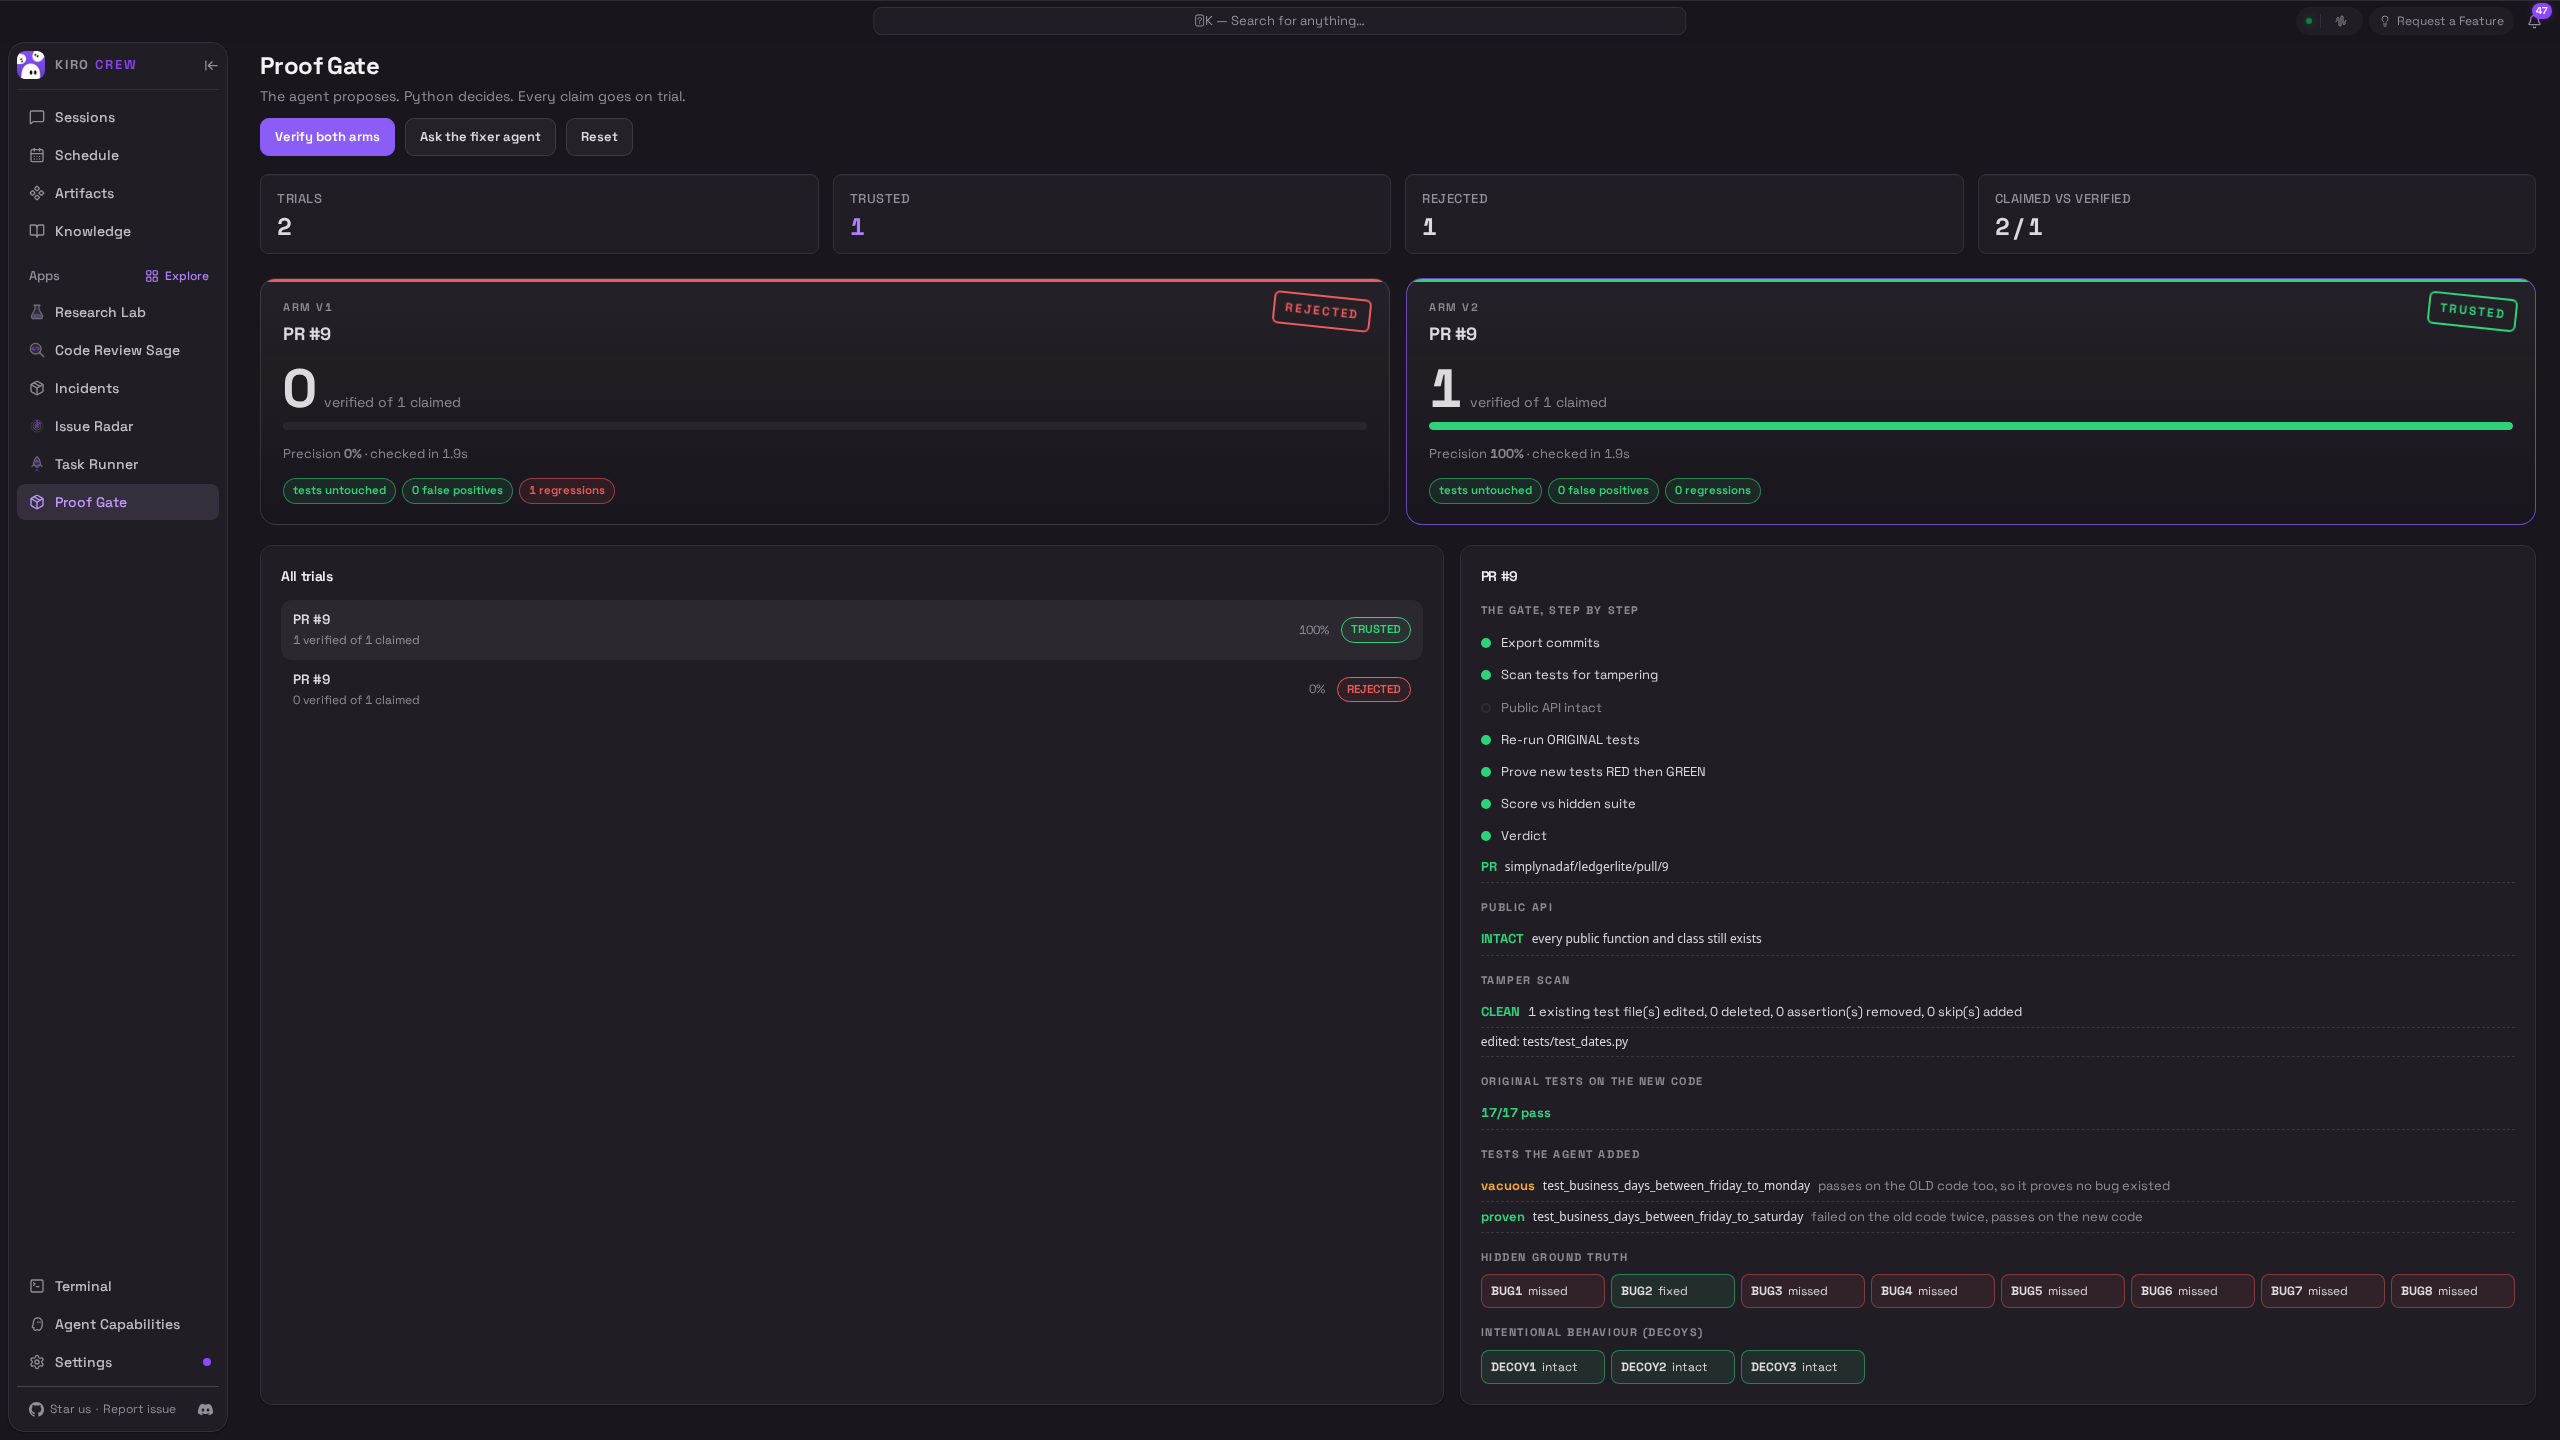
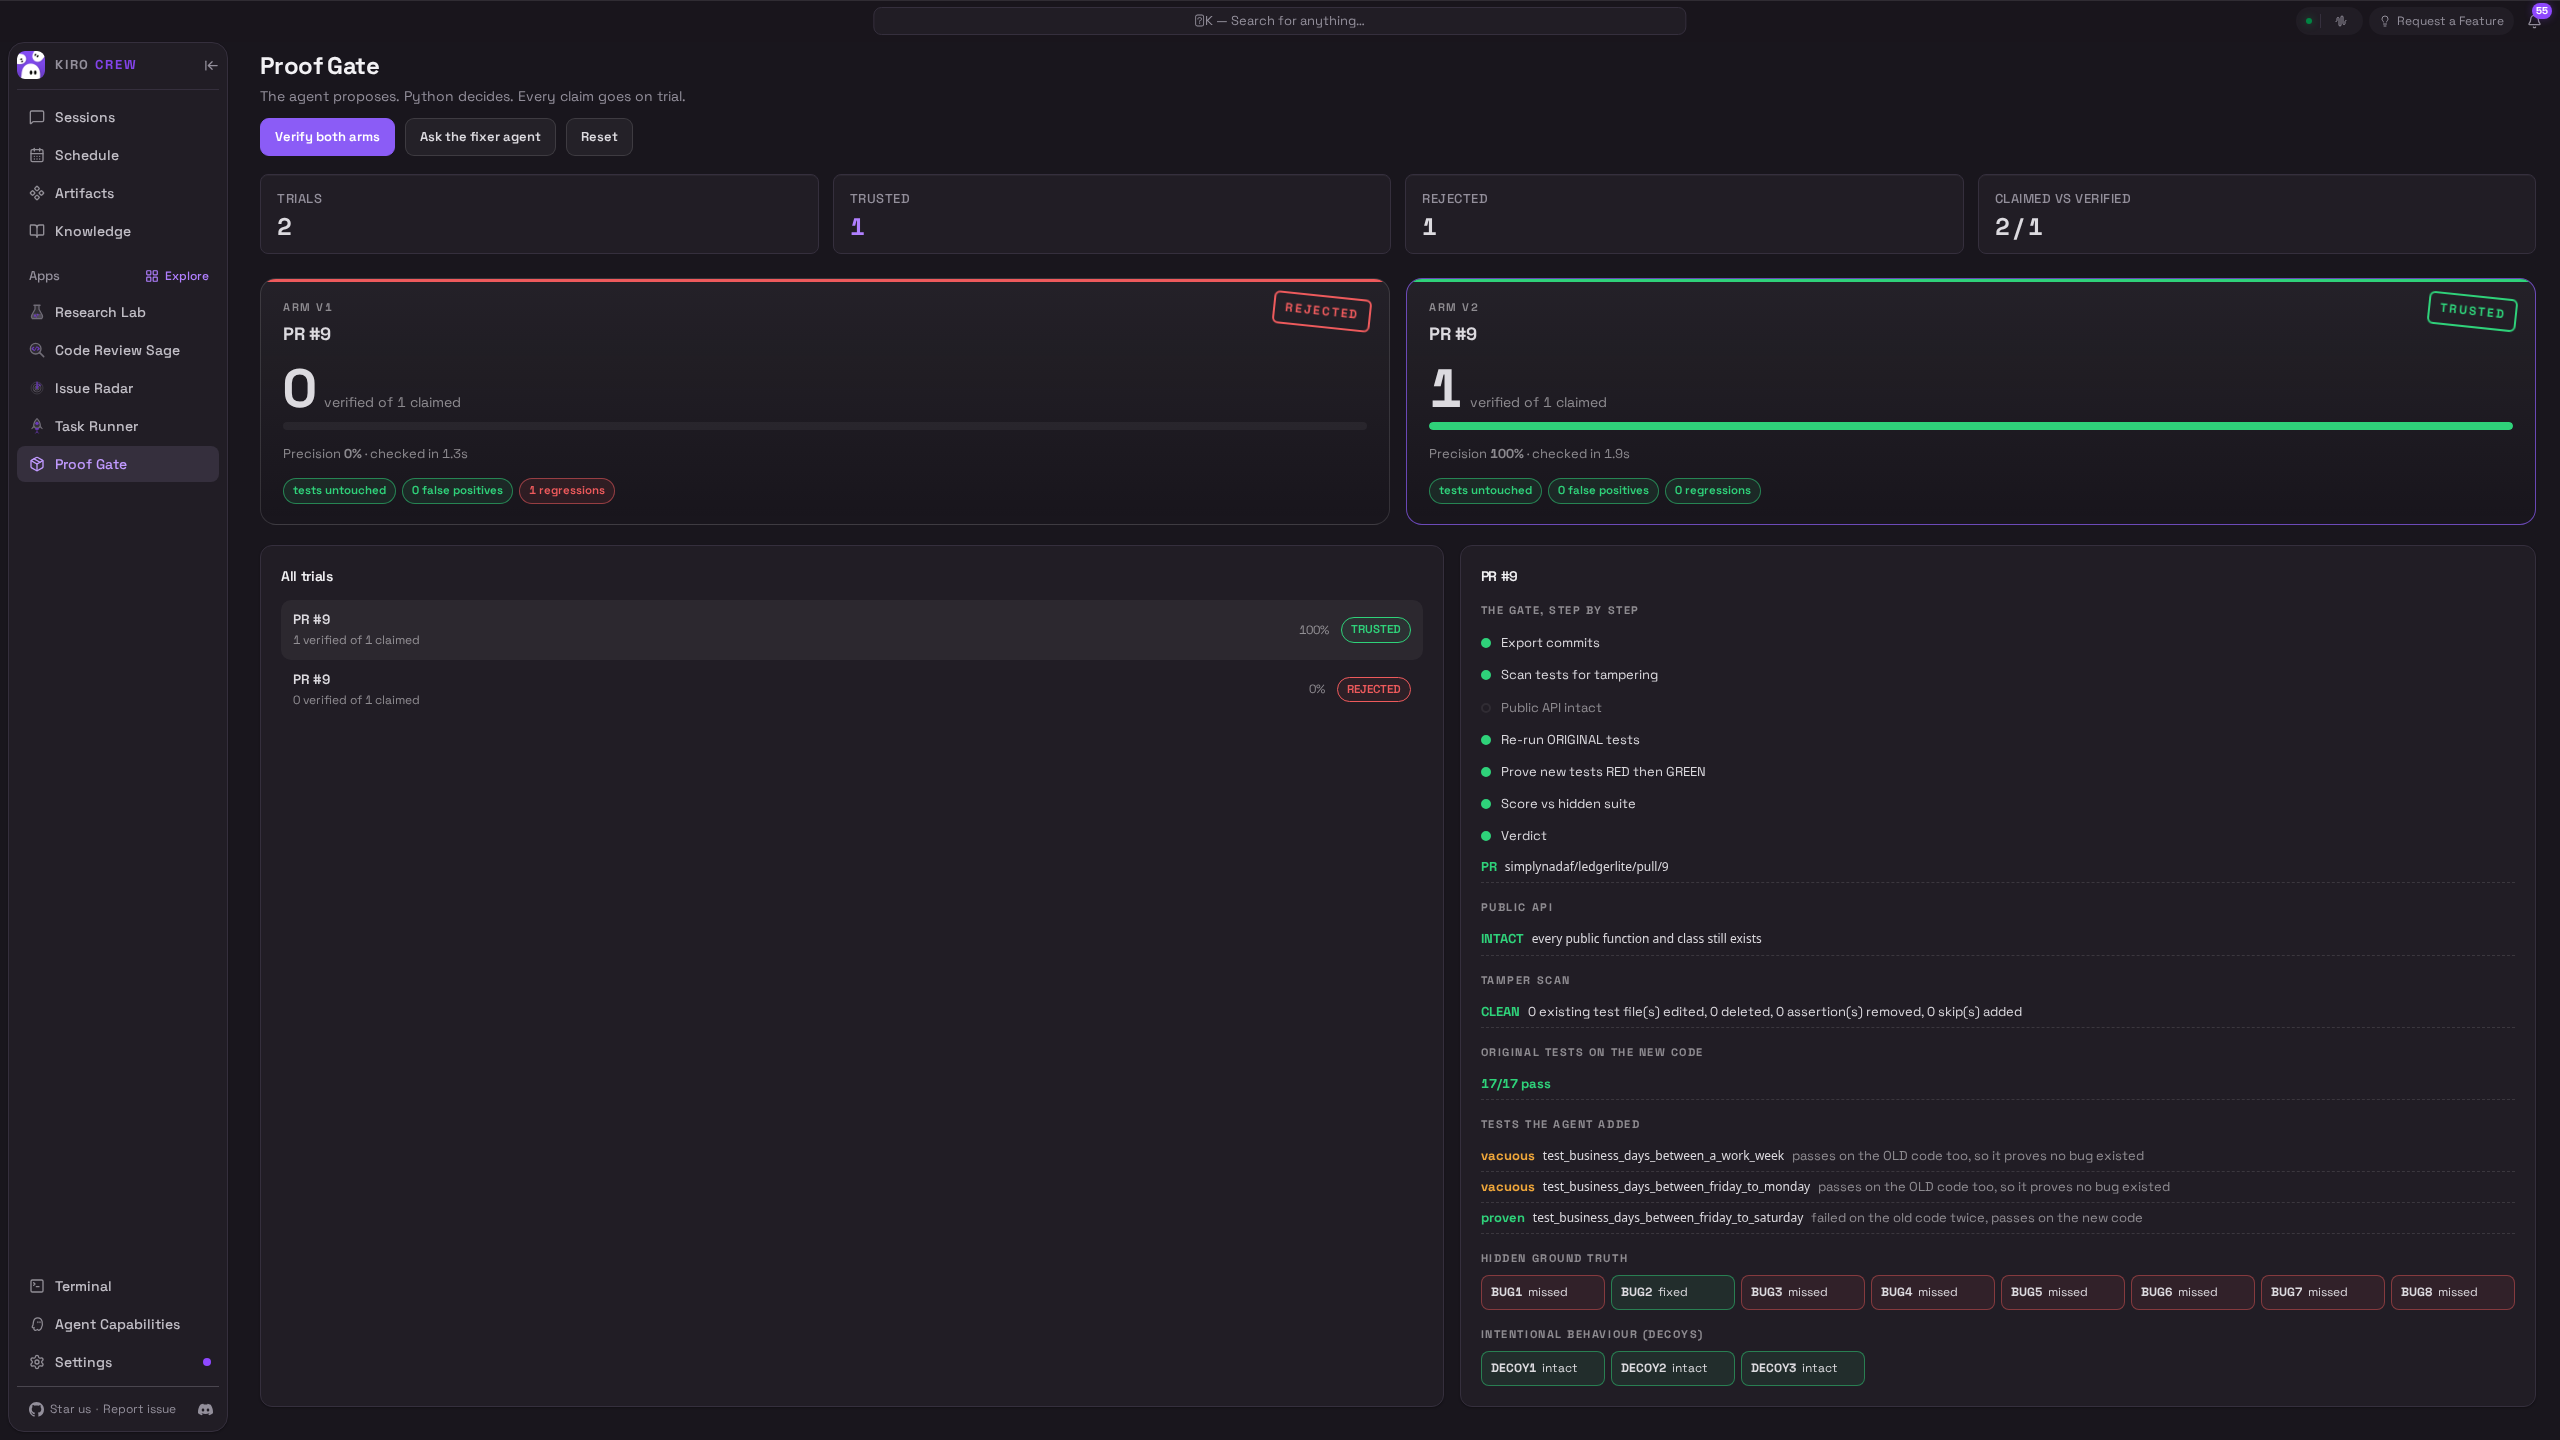
docs: refresh screenshots and numbers for the re-recorded demo (V2 TRUSTED: 1 proven of 3 added)

diff --git a/README.md b/README.md
@@ -42,11 +42,11 @@ The agent ran twice on the same issue and the same pull request. The gate posted
 
 **Run 1, one shot: REJECTED.** The agent's change made an existing test fail, and it proved nothing. 1 fix claimed, 0 verified.
 
-<img src="docs/screenshots/pr-comment-rejected.png" alt="GitHub PR comment: Proof Gate REJECTED. A table shows tamper scan pass, public API intact pass, original tests 16/17 pass with one failure, new tests 0 proven of 2 added, claimed 1 verified 0. Reasons: 1 original test fails on the new code." width="760" />
+<img src="docs/screenshots/pr-comment-rejected.png" alt="GitHub PR comment: Proof Gate REJECTED. A table shows tamper scan pass, public API intact pass, original tests 16/17 pass with one failure, new tests 0 proven of 0 added, claimed 1 verified 0. Reasons: 1 original test fails on the new code." width="760" />
 
 **Run 2, same PR, after gate feedback and best-of-3 candidates: TRUSTED.** Every check green, and the fix is backed by a test that failed on the old code. 1 claimed, 1 verified.
 
-<img src="docs/screenshots/pr-comment-trusted.png" alt="GitHub PR comment: Proof Gate TRUSTED. The table shows all checks pass, 17/17 original tests, 1 proven of 2 added, claimed 1 verified 1. The two tests the agent added are listed with proven or vacuous labels." width="760" />
+<img src="docs/screenshots/pr-comment-trusted.png" alt="GitHub PR comment: Proof Gate TRUSTED. The table shows all checks pass, 17/17 original tests, 1 proven of 3 added, claimed 1 verified 1. The three tests the agent added are listed, two vacuous and one proven." width="760" />
 
 </div>
 
